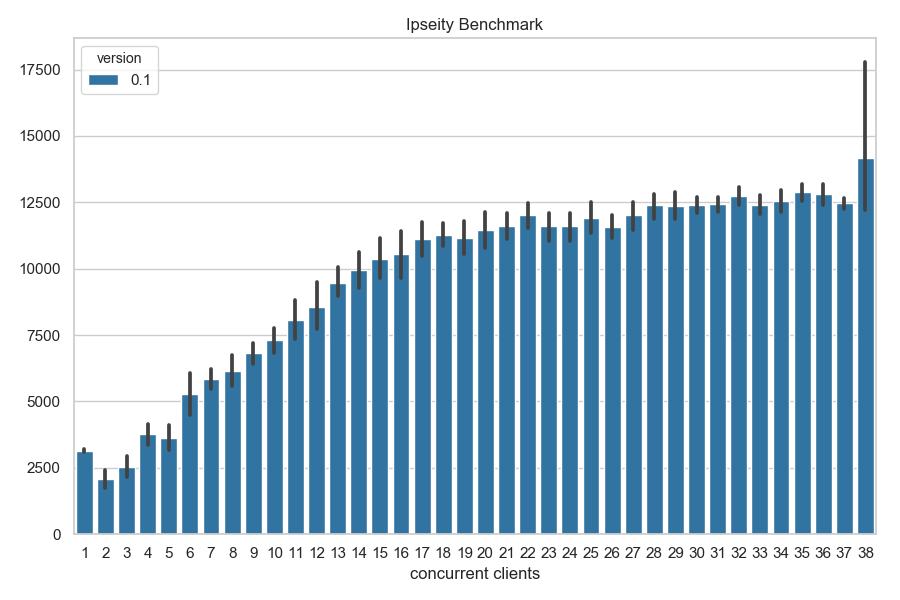
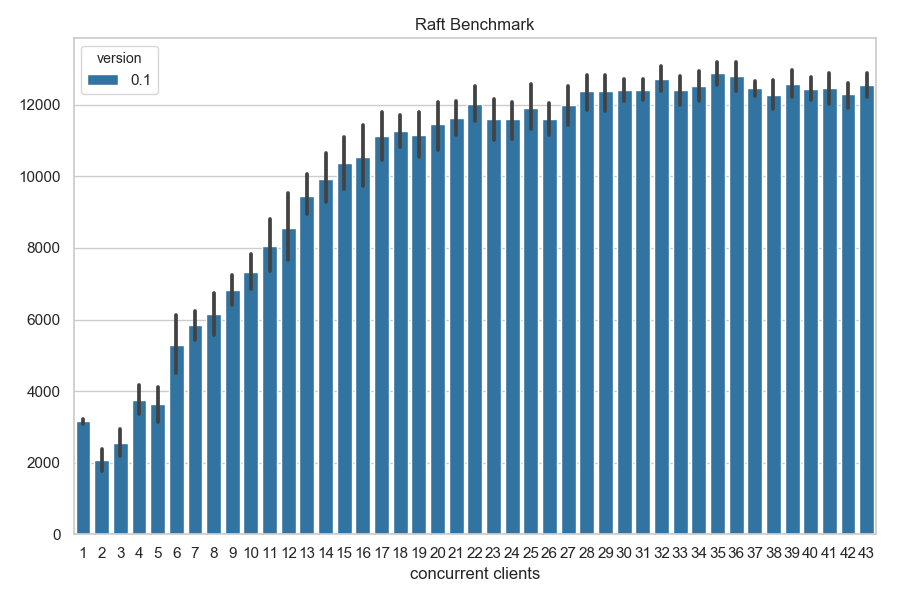
benchmark up to 42 clients

diff --git a/fixtures/viz.py b/fixtures/viz.py
@@ -54,7 +54,7 @@ def draw_line_benchmark(df, ax):
     ax.set_xlim(1, max_clients)
     ax.set_ylabel("throughput (requests/second)")
     ax.set_xlabel("concurrent clients")
-    ax.set_title("Ipseity Benchmark")
+    ax.set_title("Raft Benchmark")
     ax.legend(frameon=True)
     return ax
 
@@ -63,7 +63,7 @@ def draw_bar_benchmark(df, ax):
     g = sns.barplot('clients', 'throughput', hue='version', ax=ax, data=df)
     ax.set_ylabel("")
     ax.set_xlabel("concurrent clients")
-    ax.set_title("Ipseity Benchmark")
+    ax.set_title("Raft Benchmark")
     return ax
 
 
